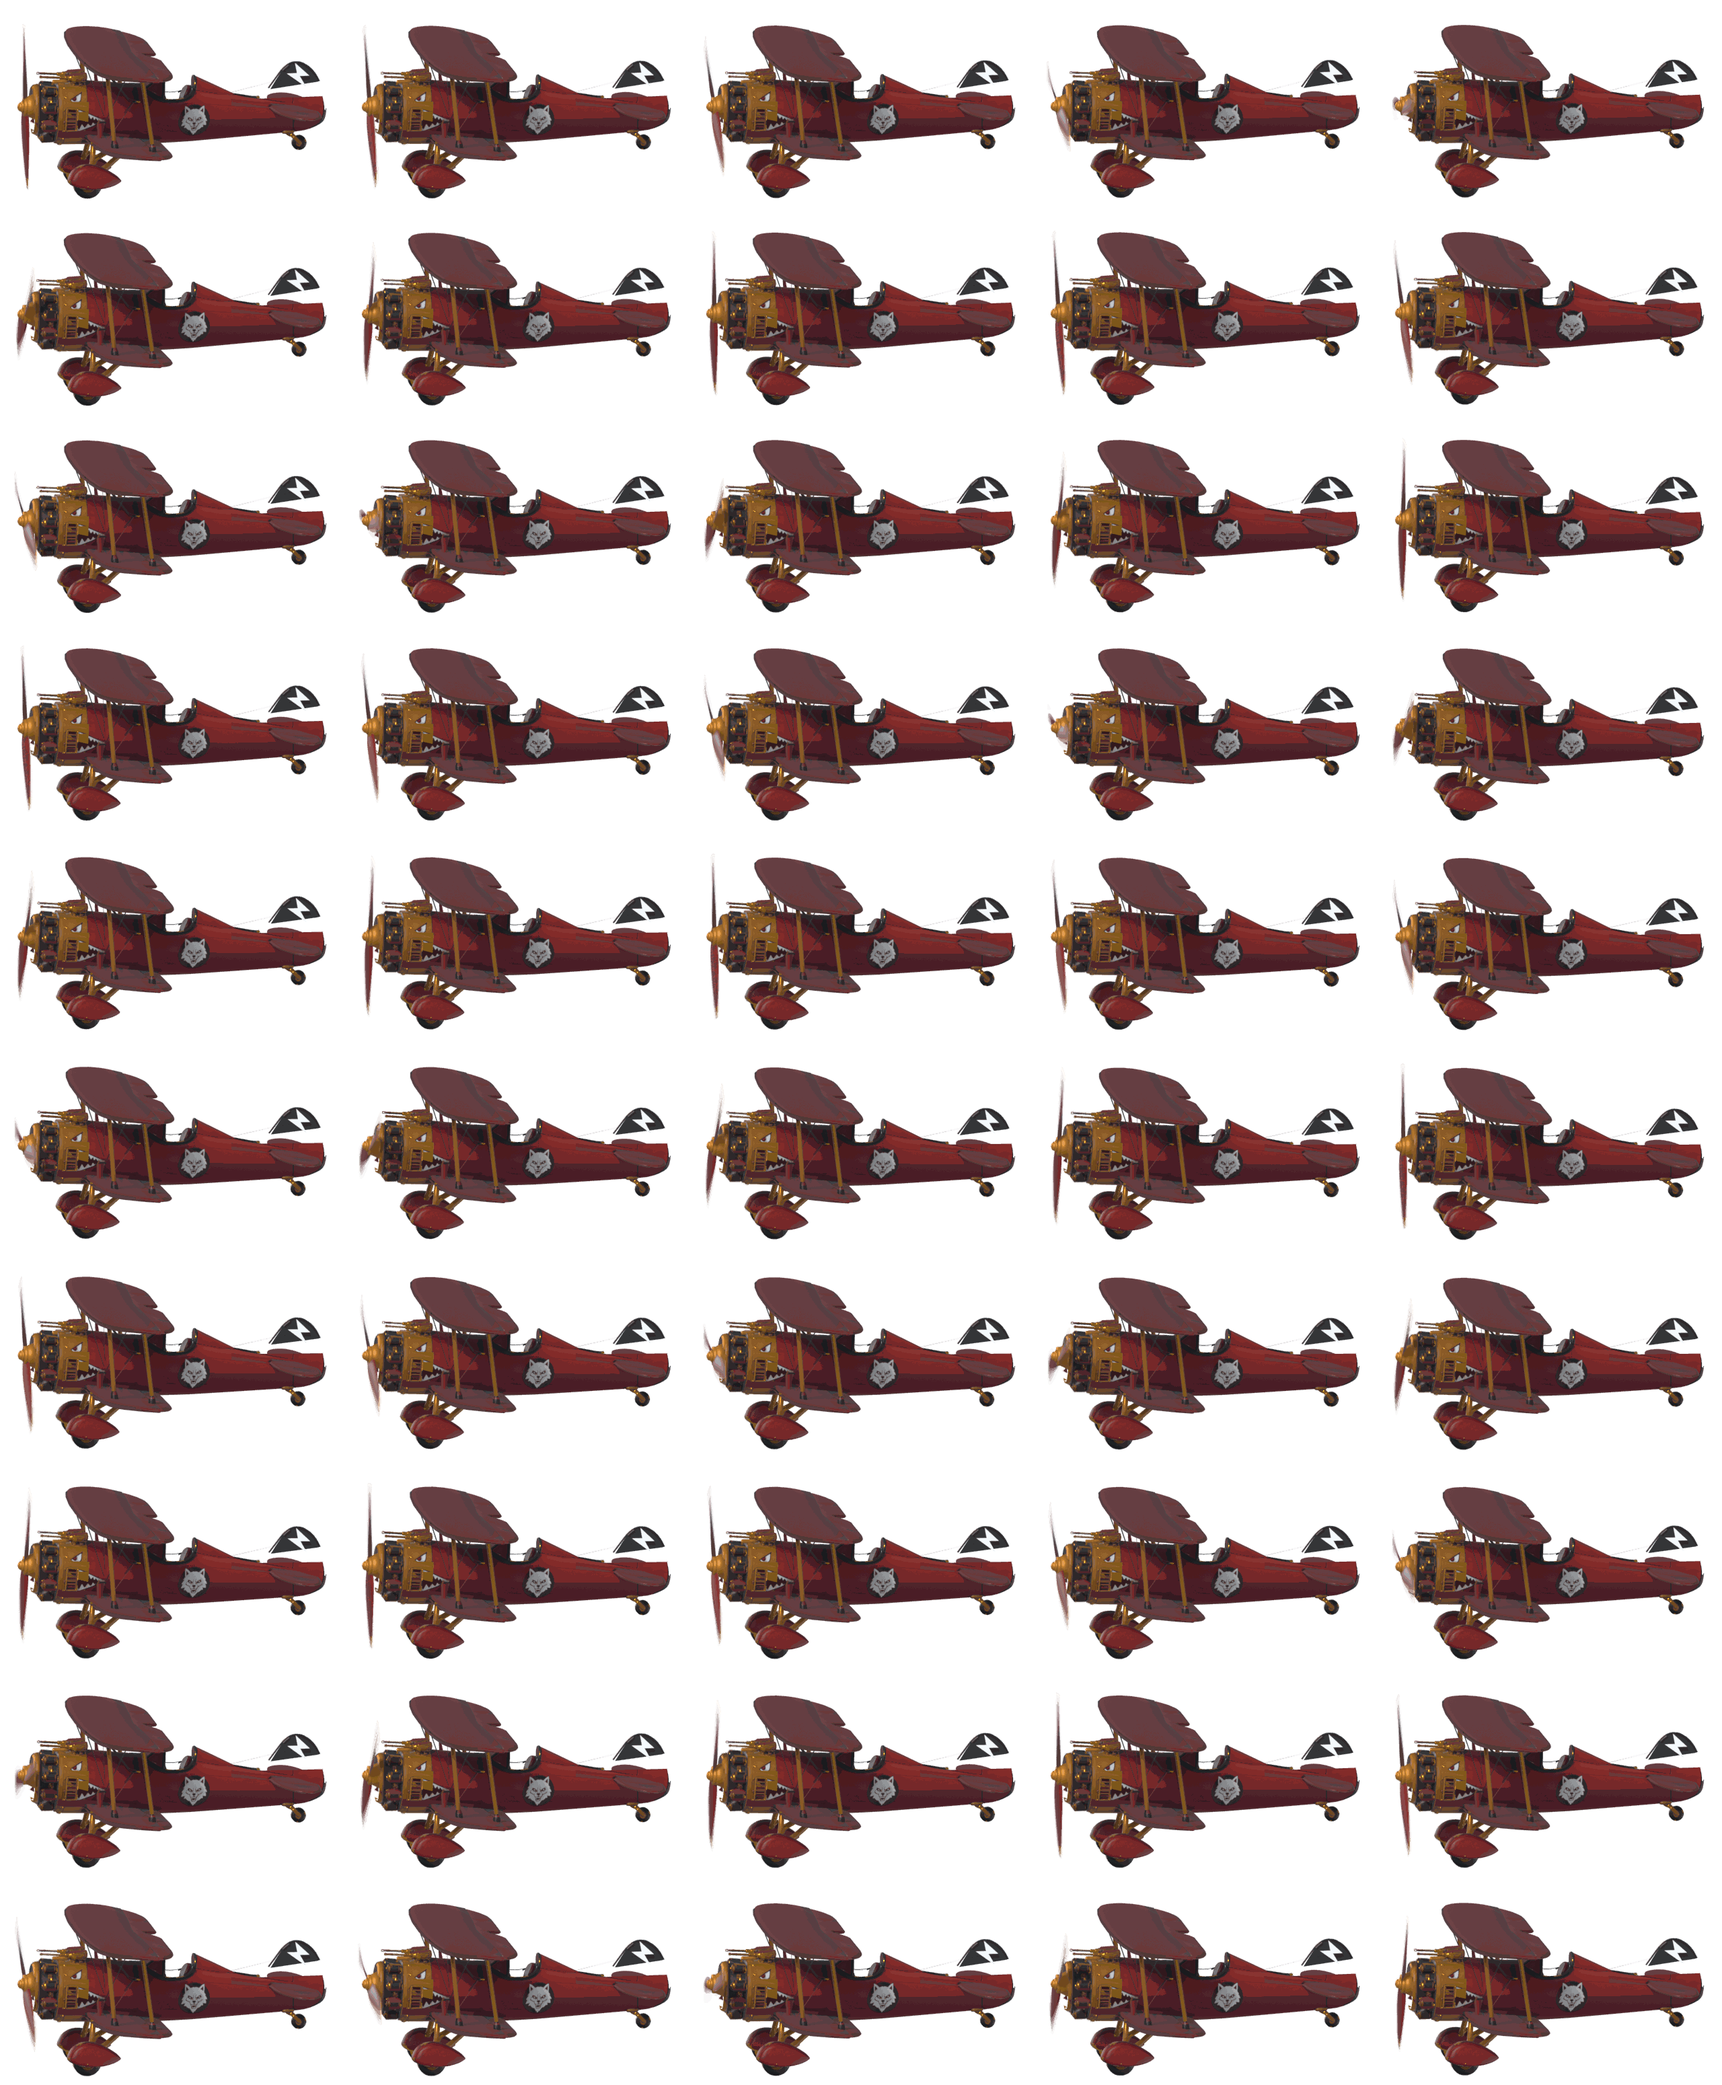
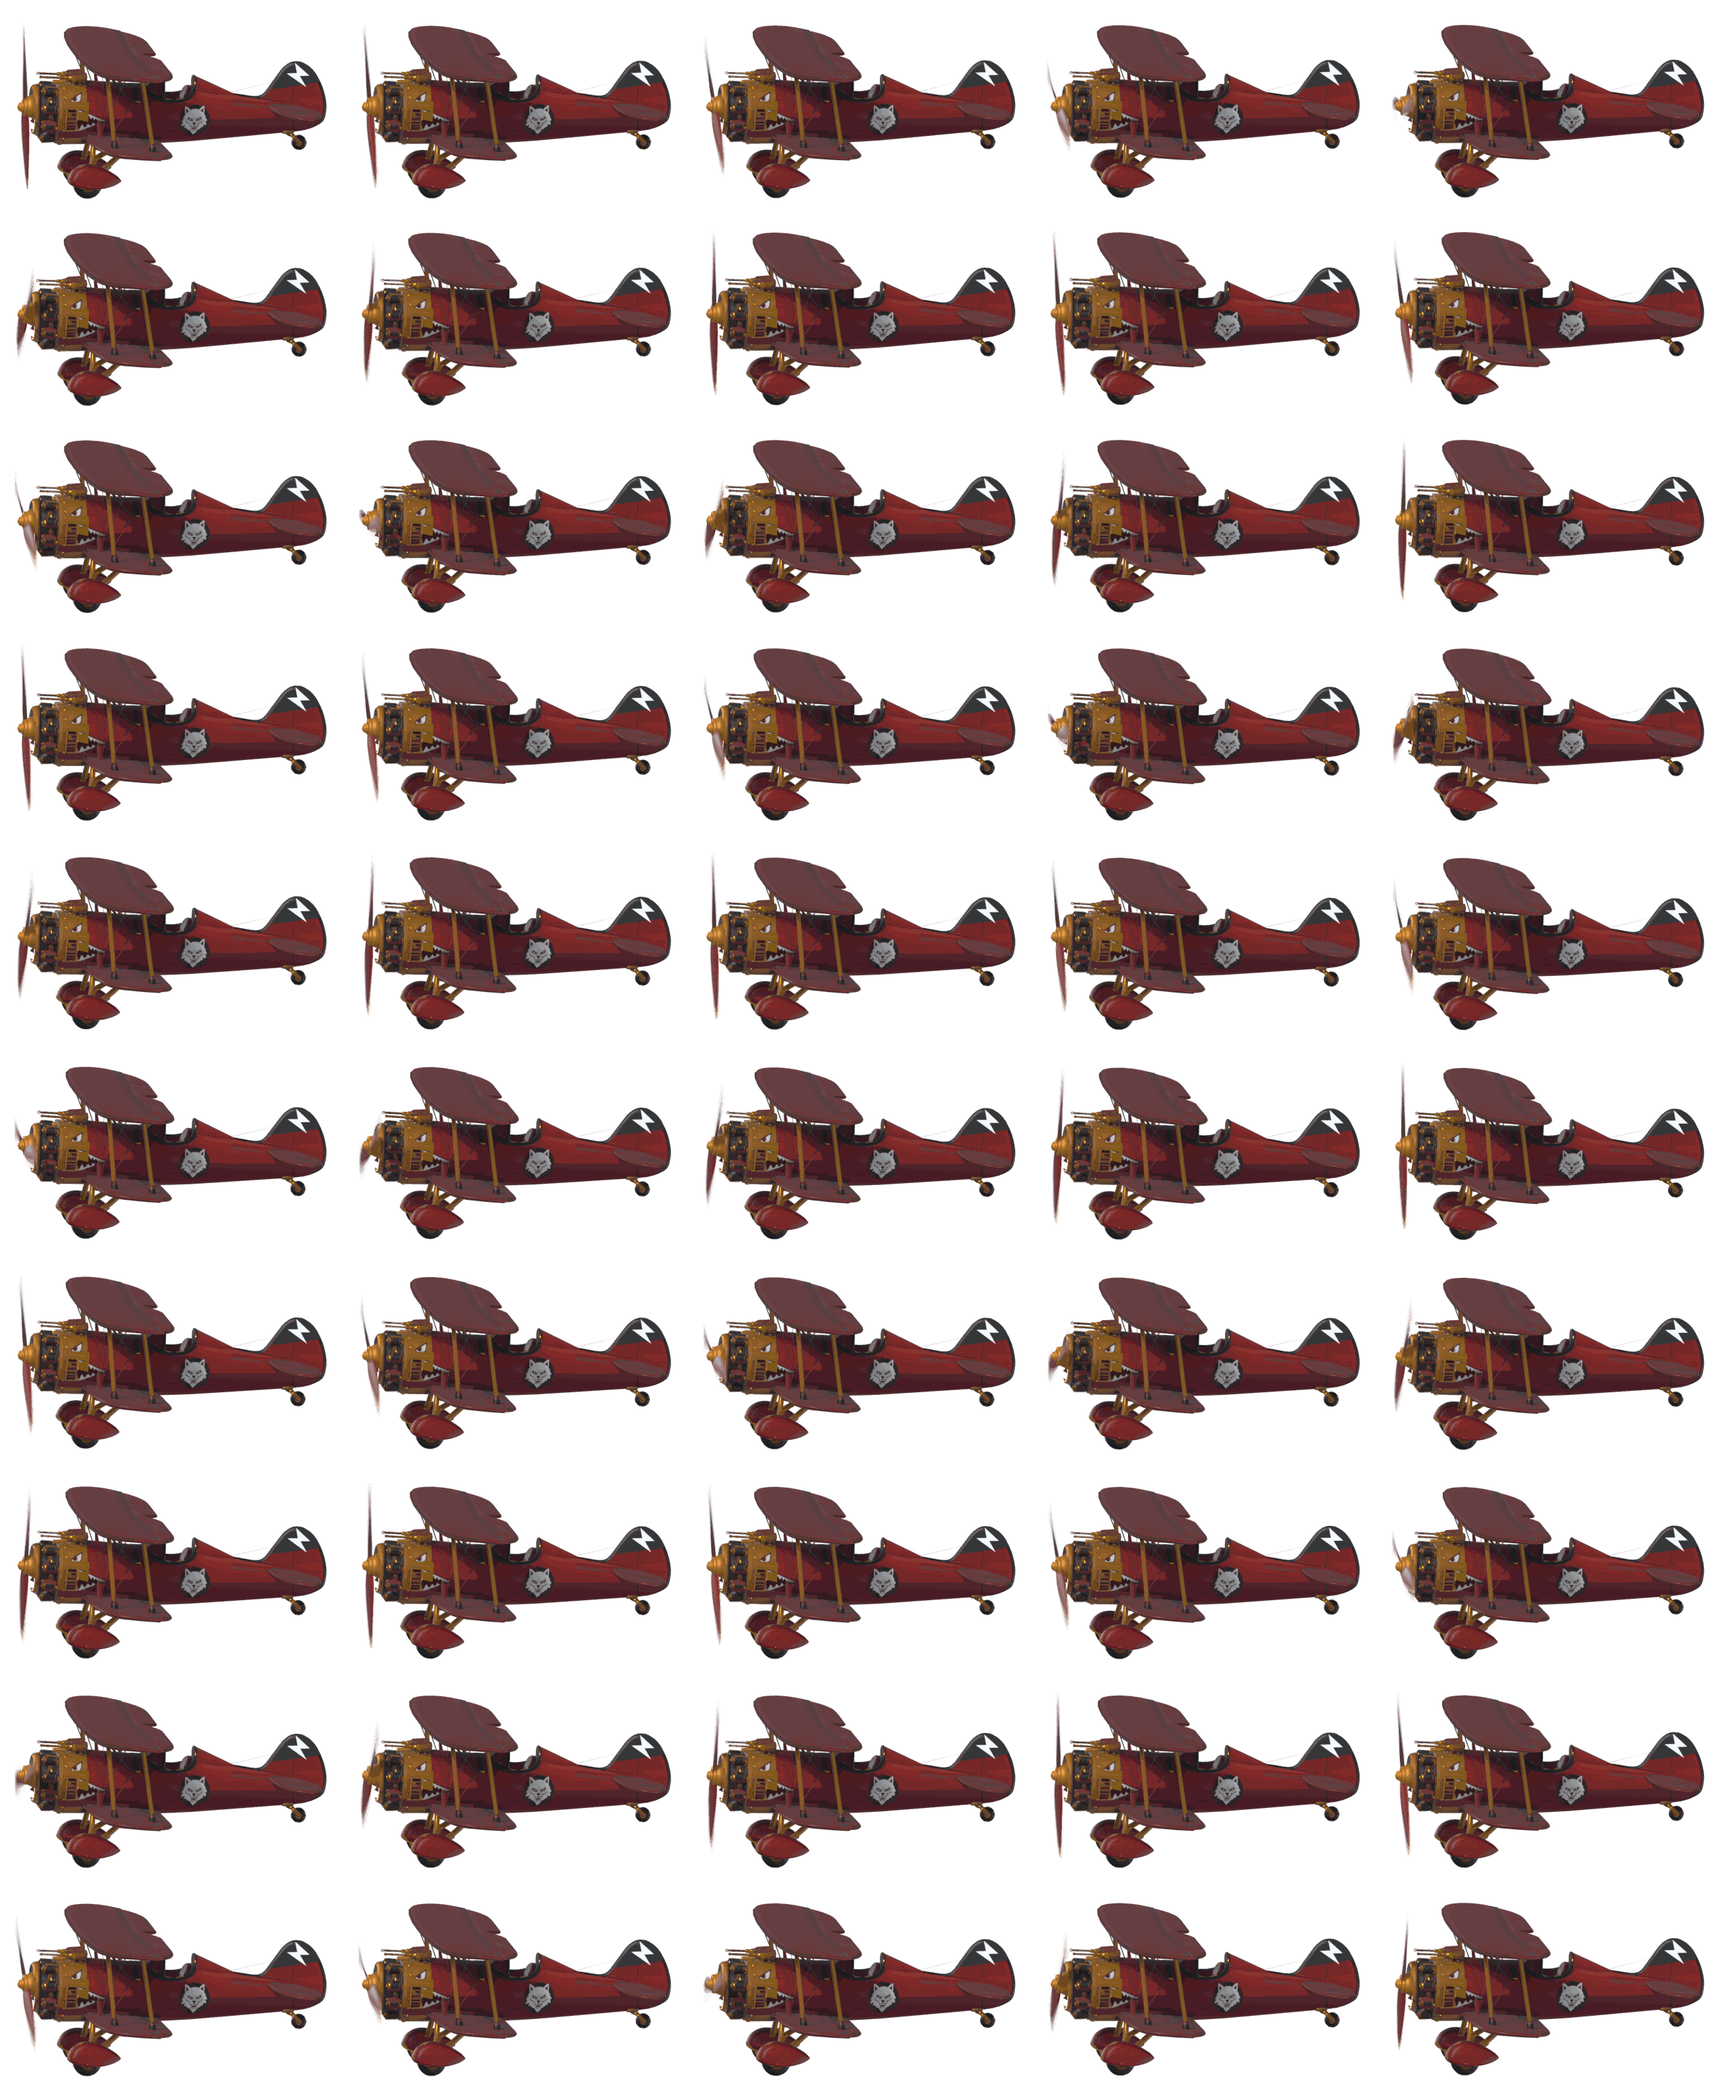
fix: stop the junk sweep from eating the fin
The membrane sweep was removing the fin itself on the Jackals: Tripo models the
fin and tailplane as thin plates, and thinness alone matched the sail test, so
the fin came away from the fuselage and daylight showed through the tail.

Thinness is no longer enough. Only two things go now: near-degenerate patches
of a dozen vertices or fewer (the three-vertex sails between the struts), and
flat pieces sitting above the upper wing, where nothing belongs. The fin, at
26-57 vertices, stays put.

bake_sheet.py also gains a CONTROL_BLOCKS flag that bakes the sheet in three
blocks — level flight plus a bank each way, with deflected ailerons, rudder and
elevator and its own seamless propeller turn per block. It is OFF: the renderer
has no block picker yet, so those frames would make the aircraft twitch into a
turn during level flight. See tools/3d/README.md for what finishing it needs,
and for the caveat that side-on is a poor angle to read ailerons from.

diff --git a/tools/3d/bake_sheet.py b/tools/3d/bake_sheet.py
@@ -107,19 +107,61 @@ if OUTLINE:
         ls.collection_negation = 'EXCLUSIVE'
 
 # ---- animation
+# The sheet holds three blocks so the game can show the controls actually
+# working: level flight, then a right bank and a left bank with the ailerons,
+# rudder and elevator deflected. Each block's propeller turn is a whole number
+# of half-revolutions, so it loops seamlessly on its own.
+# Set CONTROL_BLOCKS=True to bake the deflected blocks. Off by default: the
+# renderer has no block picker yet, so a sheet with banks in it would make the
+# aircraft twitch into a turn at random during level flight.
+CONTROL_BLOCKS = False
+LEVEL, BANK = (30, 10) if CONTROL_BLOCKS else (FRAMES, 0)
+assert LEVEL + BANK * 2 == FRAMES
+import importlib.util as _il
+_sp = _il.spec_from_file_location("pp", os.path.join(BASE, "plane_pipeline.py"))
+_pp = _il.module_from_spec(_sp); _sp.loader.exec_module(_pp)
+SIGN = _pp.CONTROL_SIGN
+AIL = ["ail_lo_L", "ail_lo_R", "ail_up_L", "ail_up_R"]
+P = rig.pose.bones
+
+def set_controls(f, roll, elev, rud):
+    for b in AIL:
+        P[b].rotation_euler = (0, math.radians(roll * SIGN[b]), 0)
+        P[b].keyframe_insert("rotation_euler", index=1, frame=f)
+    P["elevator"].rotation_euler = (0, math.radians(elev * SIGN["elevator"]), 0)
+    P["elevator"].keyframe_insert("rotation_euler", index=1, frame=f)
+    P["rudder"].rotation_euler = (0, math.radians(rud * SIGN["rudder"]), 0)
+    P["rudder"].keyframe_insert("rotation_euler", index=1, frame=f)
+
 sc.frame_start = 1; sc.frame_end = FRAMES
 sc.render.fps = 24
-deg_per_frame = HALF_TURNS * 180.0 / FRAMES
+ang = 0.0
 for f in range(1, FRAMES + 1):
-    t = (f - 1) / FRAMES
-    piv.rotation_euler = (math.radians(deg_per_frame * (f - 1)), 0, 0)
+    if f <= LEVEL:
+        i, n, roll = f - 1, LEVEL, 0.0
+        step = 7 * 180.0 / LEVEL          # whole half-turns across the block
+        amp, pitch = 0.085, 0.9
+    elif f <= LEVEL + BANK:
+        i, n, roll = f - LEVEL - 1, BANK, 24.0
+        step = 2 * 180.0 / BANK
+        amp, pitch = 0.045, 0.5
+    else:
+        i, n, roll = f - LEVEL - BANK - 1, BANK, -24.0
+        step = 2 * 180.0 / BANK
+        amp, pitch = 0.045, 0.5
+    t = i / n
+    ang = step * i
+    piv.rotation_euler = (math.radians(ang), 0, 0)
     piv.keyframe_insert("rotation_euler", index=0, frame=f)
-    bob.location = (0.0, 0.0, 0.085 * math.sin(2 * math.pi * t))
-    bob.rotation_euler = (0.0, math.radians(0.9 * math.sin(2 * math.pi * t + 1.1)), 0.0)
+    bob.location = (0.0, 0.0, amp * math.sin(2 * math.pi * t))
+    bob.rotation_euler = (0.0, math.radians(pitch * math.sin(2 * math.pi * t + 1.1)), 0.0)
     bob.keyframe_insert("location", index=2, frame=f)
     bob.keyframe_insert("rotation_euler", index=1, frame=f)
+    set_controls(f, roll, 0.0 if roll == 0 else 7.0, 0.0 if roll == 0 else roll * 0.42)
 for fc in piv.animation_data.action.fcurves:
     for kp in fc.keyframe_points: kp.interpolation = 'LINEAR'
+for fc in (rig.animation_data.action.fcurves if rig.animation_data else []):
+    for kp in fc.keyframe_points: kp.interpolation = 'CONSTANT'
 
 OUT = os.path.join(BASE, "bake_%s" % TAG)
 os.makedirs(OUT, exist_ok=True)

diff --git a/tools/3d/plane_pipeline.py b/tools/3d/plane_pipeline.py
@@ -913,14 +913,18 @@ def metalize_trim(o, m, base=(206, 146, 52), name="Duralumin",
 
 
 # ---------------------------------------------------------------- junk removal
-def strip_film_artifacts(o, max_verts=60, thin=0.22, wide=0.80):
+def strip_film_artifacts(o, upper_z=None, thin=0.22, wide=0.80,
+                         degenerate=12, floater=30):
     """Delete Tripo's stray membranes.
 
-    The generator leaves flat slivers behind: a ribbon floating over the top
-    wing, sails strung between the struts where rigging wires belong, and
-    degenerate strips along the tail. They all share a shape — a handful of
-    vertices spanning two big dimensions with almost no thickness. Real rigging
-    wires are thin in TWO directions, so they survive this test.
+    The generator leaves flat slivers behind: sails strung between the struts
+    where rigging wires belong (three vertices each), and ribbons floating over
+    the top wing. Both are flat — two big dimensions, no thickness.
+
+    The fin and tailplane are ALSO thin plates in this mesh, so thinness alone
+    is not enough: an early version ate the fin and left it hanging off the
+    fuselage. Only two things go: near-degenerate patches of a dozen vertices or
+    fewer, and flat pieces sitting above the upper wing, where nothing belongs.
     """
     me = o.data
     bm = bmesh.new(); bm.from_mesh(me)
@@ -936,10 +940,13 @@ def strip_film_artifacts(o, max_verts=60, thin=0.22, wide=0.80):
                 w = e.other_vert(cur)
                 if w.index not in seen:
                     seen.add(w.index); stack.append(w)
-        if len(comp) > max_verts: continue
+        if len(comp) > max(degenerate, floater): continue
         xs = [c.co.x for c in comp]; ys = [c.co.y for c in comp]; zs = [c.co.z for c in comp]
         size = sorted((max(xs) - min(xs), max(ys) - min(ys), max(zs) - min(zs)))
-        if size[0] < thin and size[1] > wide:
+        cz = (max(zs) + min(zs)) / 2
+        flat = size[0] < thin and size[1] > wide
+        above = upper_z is not None and cz > upper_z + 0.10
+        if flat and (len(comp) <= degenerate or (above and len(comp) <= floater)):
             kill.extend(comp)
             removed.append({"verts": len(comp), "size": [round(s, 2) for s in size]})
     if kill:

diff --git a/tools/3d/run_plane.py b/tools/3d/run_plane.py
@@ -27,7 +27,7 @@ c = CFG[TAG]
 pp.wipe()
 o = pp.load(c["src"], span=10.0)
 m = pp.measure(o)
-film = pp.strip_film_artifacts(o)
+film = pp.strip_film_artifacts(o, upper_z=m["wing_up_z"])
 hole_r = pp.cut_prop(o, m)
 m_dark = pp.mat("EngineDark_" + TAG, (0.048, 0.045, 0.043), 0.52, 0.55)
 m_brass = pp.mat("PropBrass_" + TAG, pp.rgb(c["brass"]), 0.50, 0.45)

diff --git a/tools/3d/README.md b/tools/3d/README.md
@@ -86,3 +86,22 @@ python tools/3d/bl.py <(sed 's/%TAG%/sov/' tools/3d/demo_video.py)
 
 `?art=3d` — включить запечённый арт, `?art=classic` — вернуть нарисованный.
 Выбор запоминается.
+
+## Что не доделано
+
+**Отклонённые рули в игре.** В `bake_sheet.py` есть флаг `CONTROL_BLOCKS`: если
+включить, лист печётся тремя блоками — 30 кадров ровного полёта, 10 с креном
+вправо, 10 с креном влево, у каждого блока свой бесшовный оборот винта. Флаг
+выключен, потому что в движке нет выбора блока: лист с кренами заставил бы
+самолёт дёргаться в вираж посреди ровного полёта.
+
+Чтобы доделать, нужно: добавить в `PlaneArtDef` границы блоков, выбирать блок в
+`createAnimatedPlaneArt` по знаку поворота (в `index.ts` он уже считается —
+`headingDelta`), и включить флаг. **Но сначала стоит проверить, стоит ли овчинка
+выделки**: в игре самолёт виден строго сбоку, крыло смотрит ребром, и элероны
+там почти не читаются. Заметны в основном руль высоты и руль направления, так
+что отклонения, возможно, придётся делать заметно больше натуральных.
+
+**Синие подтёки на золотой окантовке хвоста С.О.В.** — дефект текстуры Tripo.
+Ослабление порога в `metalize_trim` их цепляет, но заодно расползается золотом
+по борту. Лечится ручной разметкой зон или чистой текстурой без вжжённого света.
